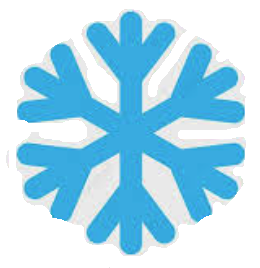
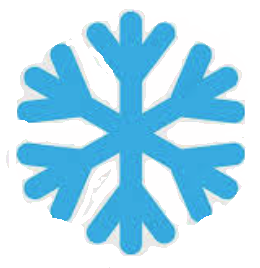
cleanup snowflake and smaller features images

diff --git a/README.md b/README.md
@@ -32,11 +32,11 @@ cd pgedge
 
 ## Featured open source Extensions
 
-#####  <img src=img/spock.png height=35> **[spock](https://github.com/pgedge/spock)** - Multi-master w/ Conflict Resolution, Auto DDL and Delta Apply
+#####  <img src=img/spock.png height=30> **[spock](https://github.com/pgedge/spock)** - Multi-master w/ Conflict Resolution, Auto DDL and Delta Apply
 
-##### <img src=img/snowflake.png height=35> **[snowflake-sequences](https://github.com/pgedge/snowflake-sequences)** - Sequences that are as unique as snowflakes
+##### <img src=img/snowflake.png height=30> **[snowflake-sequences](https://github.com/pgedge/snowflake-sequences)** - Sequences that are as unique as snowflakes
 
-##### <img src=img/pg-community.png height=35> **[Community Extensions](supported-extensions.md)** - All the best such as Postgis, pgVector, Citus... 
+##### <img src=img/pg-community.png height=30> **[Community Extensions](supported-extensions.md)** - All the best such as Postgis, pgVector, Citus... 
 
 ## CLI Commands
 
